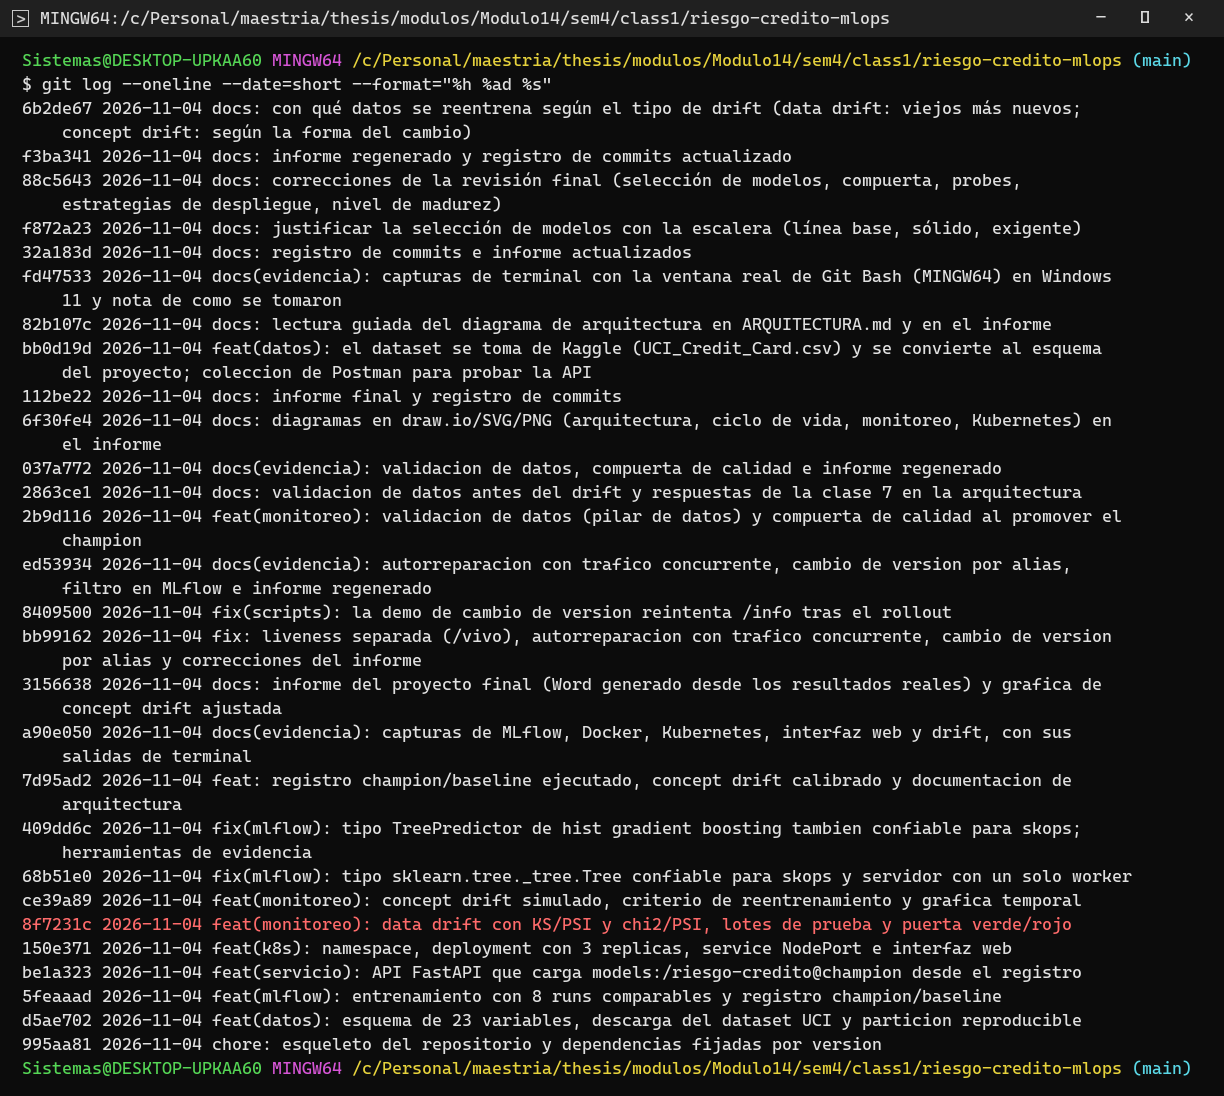
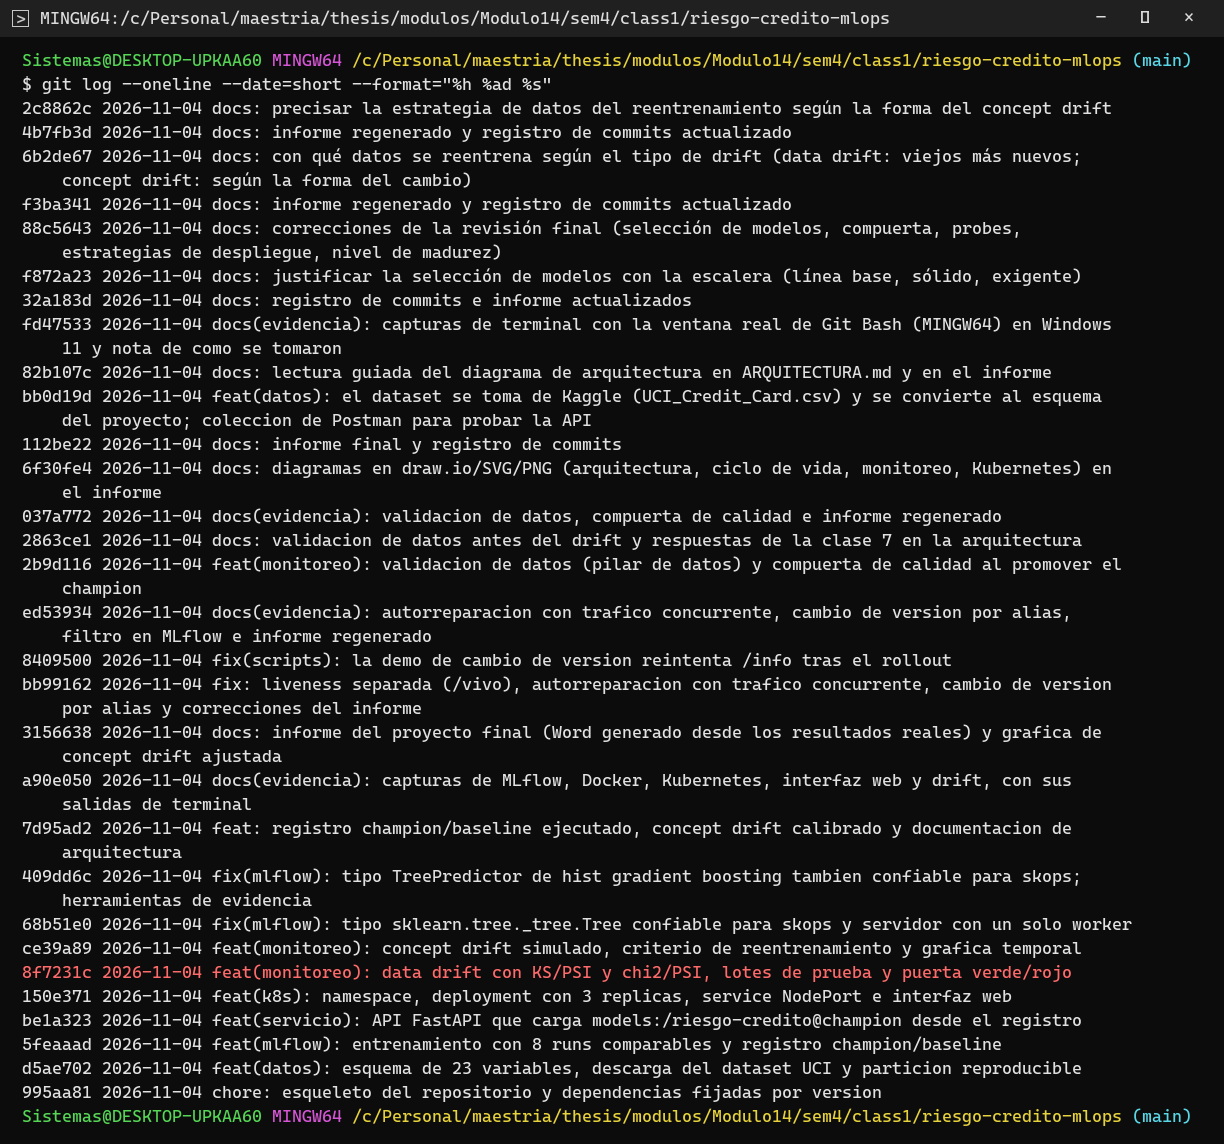
docs: enlace al repositorio publicado

Changed region(s): [[0.0, 0.0, 0.9624, 0.9927], [0.9003, 0.9617, 0.9624, 0.9927]]

diff --git a/README.md b/README.md
@@ -1,8 +1,8 @@
-# riesgo-credito-mlops
+# riesgo-credito-mlops
 
 Proyecto final del módulo **ML-Ops y Puesta en Producción** (MIAV1E414, Maestría en IA, UAGRM).
 Autor: **Omar Terceros Vallejos** (trabajo individual).
-Repositorio: _(pendiente de publicar; `scripts\publicar_repo.ps1 -Url <url>` lo sube y completa este enlace)_
+Repositorio: https://github.com/omarterceros/riesgo-credito-mlops
 
 Un modelo que predice si un cliente de tarjeta de crédito **entrará en mora el mes siguiente**,
 llevado desde el entrenamiento hasta un despliegue reproducible y observable:
